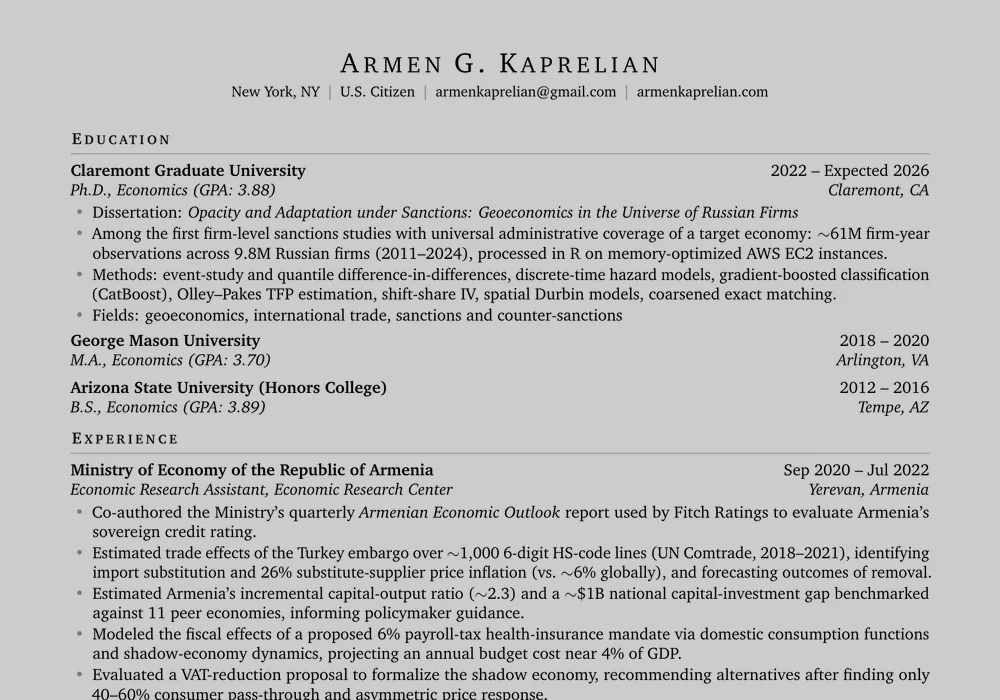
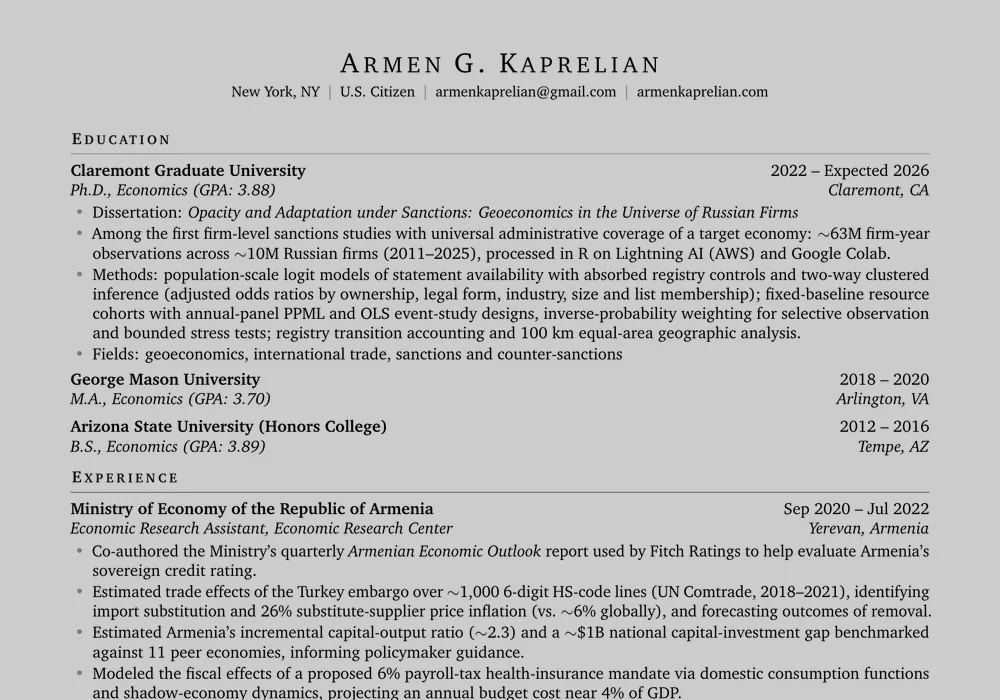
Home: the pipeline photo at the column's full width (A); the résumé of 1 November 2026 (the author's approval of 1 November 2026)
css/site.css: a second variable, --photo (35cqw, 35vw as the fallback), is the photo's height at the column's width; --band still sizes
the index, so on a window shorter than 0.35 × width + 330 px the whole photo now spans the column and its top sits above the index's
rule instead of the photo shrinking toward the right (the author's pick A over a crop). The scan lines' origin and the preview cards
follow --photo. resume/kaprelian-resume.pdf and its preview from the lab's site/resume/build.sh: the author's Overleaf export of
1 November with no phone line, "~10M Russian firms (2011–2025)", the methods line from the dissertation's decision record, and
Lightning AI (AWS) and Google Colab.

Changed region(s): [[0.062, 0.33, 0.93, 1.0]]

diff --git a/css/site.css b/css/site.css
@@ -77,9 +77,9 @@ hr { border: 0; height: 2px; margin: 0; background: var(--dim); }
    line across the page: the photo's top edge is the index's top rule, and the photo's height (--band, 0.7 of the panel's width,
    capped so the top block keeps its rows) is the index's height. The name, the headshot and the bio sit on the stream's 22 px rows,
    which start 4 px from the top. Widths come from the page (cqw), so a scroll bar never makes the photo wider than its panel. */
-.home { --band: min(35vw, 100vh - 330px); container-type: inline-size; display: grid; grid-template-columns: var(--split) 1fr; min-height: 100vh; min-height: 100dvh; }   /* dvh where the browser has it, so Safari's toolbars never cover the panel */
+.home { --band: min(35vw, 100vh - 330px); --photo: 35vw; container-type: inline-size; display: grid; grid-template-columns: var(--split) 1fr; min-height: 100vh; min-height: 100dvh; }   /* dvh where the browser has it, so Safari's toolbars never cover the panel */
 @supports (height: 100dvh) { .home { --band: min(35vw, 100dvh - 330px); } }
-@supports (width: 1cqw) and (height: 100dvh) { .home { --band: min(35cqw, 100dvh - 330px); } }
+@supports (width: 1cqw) and (height: 100dvh) { .home { --band: min(35cqw, 100dvh - 330px); --photo: 35cqw; } }   /* --photo (round 32, 1 November 2026): the photo's height at the column's full width, apart from the band that sizes the index, so a short window no longer narrows the photo */
 .visual { position: sticky; top: 0; height: 100vh; height: 100dvh; overflow: hidden; background: var(--stage); }
 .visual canvas { position: absolute; inset: 0; z-index: 1; width: 100%; height: 100%; }
 /* The photo's scan lines over the stream too (the author's request of 29 October 2026), so the panel reads as one surface: the same
@@ -87,18 +87,18 @@ hr { border: 0; height: 2px; margin: 0; background: var(--dim); }
    caption bar and the slogan card, taking no pointer events. The 3 px tiles are placed from the photo's top edge (the band line, which
    need not be a multiple of 3 px from the panel's top), so the pitch runs on through the photo with no seam. A deliberate exception to
    the rule that stripes belong to large type only: this is the photo's overlay extended over the panel, not stripes on the 11 px text. */
-.visual::after { content: ""; position: absolute; inset: 0; z-index: 1; pointer-events: none; background: linear-gradient(to bottom, rgba(3, 6, 14, .38) 0 1px, transparent 1px) 0 calc(100% - var(--band)) / 100% 3px repeat-y; }
+.visual::after { content: ""; position: absolute; inset: 0; z-index: 1; pointer-events: none; background: linear-gradient(to bottom, rgba(3, 6, 14, .38) 0 1px, transparent 1px) 0 calc(100% - var(--photo)) / 100% 3px repeat-y; }
 
 /* The photo on the floor at the centre line, its caption bar above it. Inside its frame, bottom to top: the photo, the previews of
    the index's pages, and the scan lines. */
-.photo { position: absolute; right: 0; bottom: 0; z-index: 2; margin: 0; height: var(--band); aspect-ratio: 10 / 7; }
+.photo { position: absolute; left: 0; right: 0; bottom: 0; z-index: 2; margin: 0; height: var(--photo); aspect-ratio: 10 / 7; }   /* the column's width; where the window is short the photo's top sits above the index's rule (round 32) */
 .photo > img, .photo .pv { position: absolute; inset: 0; display: block; width: 100%; height: 100%; }
 .photo .pv { opacity: 0; transition: opacity .15s linear; }
 .photo .lines { position: absolute; inset: 0; pointer-events: none; background: repeating-linear-gradient(to bottom, rgba(3, 6, 14, .38) 0 1px, transparent 1px 3px); }
 .photo .pv.live { opacity: 1; }   /* js/home.js marks the preview of the row under the pointer or the keyboard */
-.photo .card { display: flex; flex-direction: column; justify-content: center; gap: calc(var(--band) * .03); padding: 0 40px; background: var(--panel); }   /* the pages without a picture, set like the film's title cards */
+.photo .card { display: flex; flex-direction: column; justify-content: center; gap: calc(var(--photo) * .03); padding: 0 40px; background: var(--panel); }   /* the pages without a picture, set like the film's title cards */
 .photo .card .k { font-size: 12px; font-weight: 500; letter-spacing: .08em; color: var(--dim); }
-.photo .card .big { font-size: calc(var(--band) * .072); line-height: 1.12; font-weight: 700; letter-spacing: .02em; color: var(--ink); overflow-wrap: anywhere; }
+.photo .card .big { font-size: calc(var(--photo) * .072); line-height: 1.12; font-weight: 700; letter-spacing: .02em; color: var(--ink); overflow-wrap: anywhere; }
 .photo .card .sub { max-width: 52ch; font-size: 14px; color: var(--muted); }
 .photo .above { position: absolute; left: 0; right: 0; bottom: 100%; display: flex; flex-direction: column; align-items: flex-start; }
 /* The slogan, its translation and the pun, while a mouse or a pen is over the photo (or after a tap on a phone): the slogan as the
